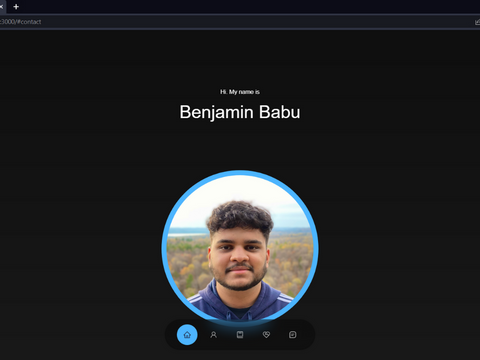
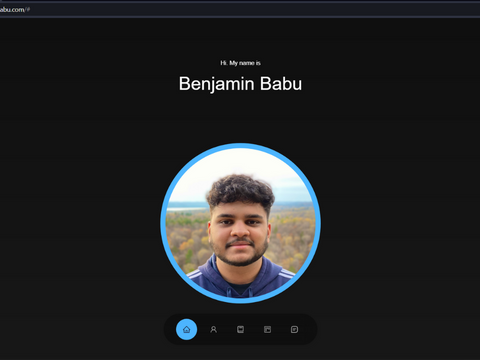
changed personal website img and added rock paper scissors

diff --git a/src/components/projects/Projects.jsx b/src/components/projects/Projects.jsx
@@ -33,9 +33,9 @@ const data = [
   {
     id: 4,
     image: IMG4, 
-    title: 'Project Name',
+    title: 'Rock Paper Scissors',
     text: 'this is text',
-    github: 'https://github.com',
+    github: 'https://github.com/benbabu02/rock-paper-scissors',
     demo: 'https://github.com'
   },
   // {
@@ -90,7 +90,6 @@ const Projects = () => {
                   {/* <h5>{text}</h5> */}
                   <div className="projects__item-cta">
                     <a href={github} className='btn' target='_blank'>Github</a>
-                    {/* <a href={demo} className='btn btn-primary' target='_blank'>Demo</a> */}
                   </div>
                 </article>
               )
